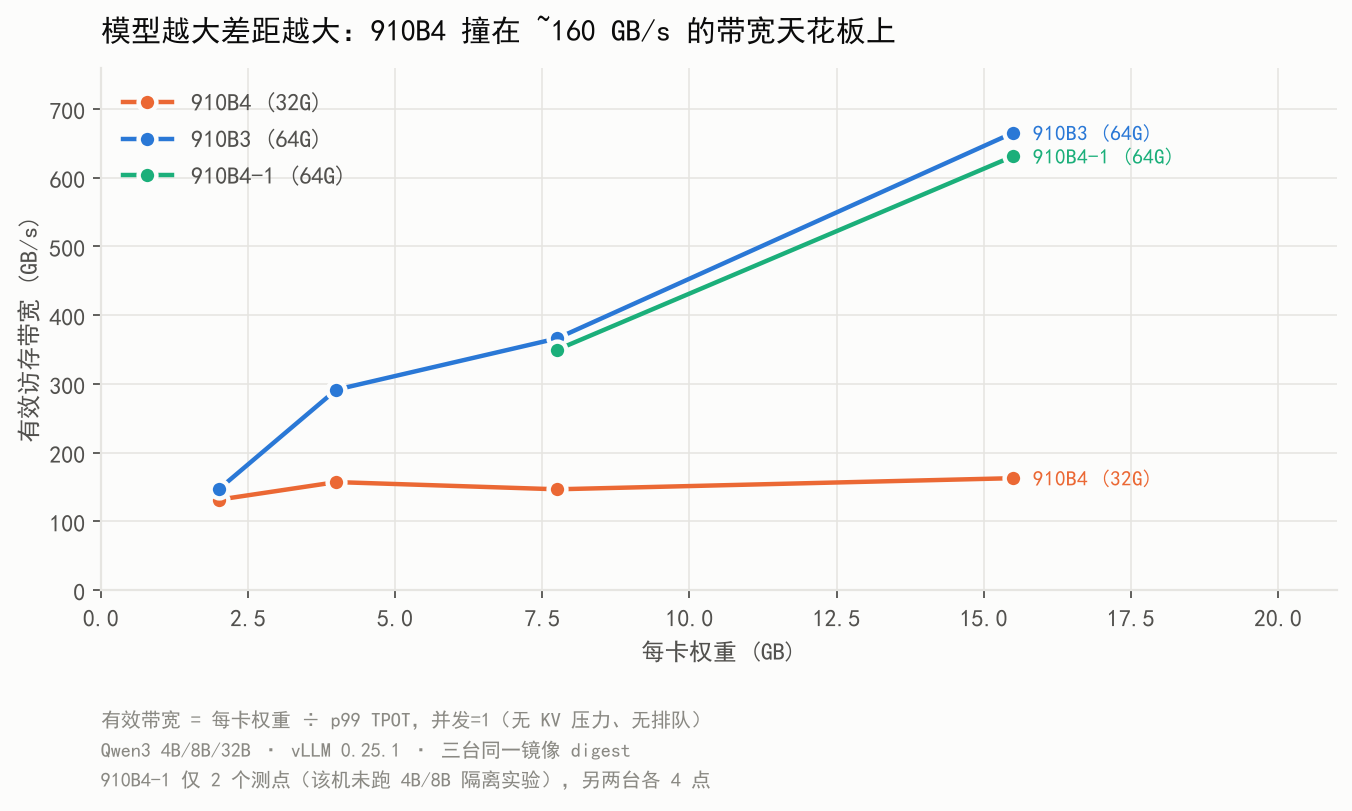
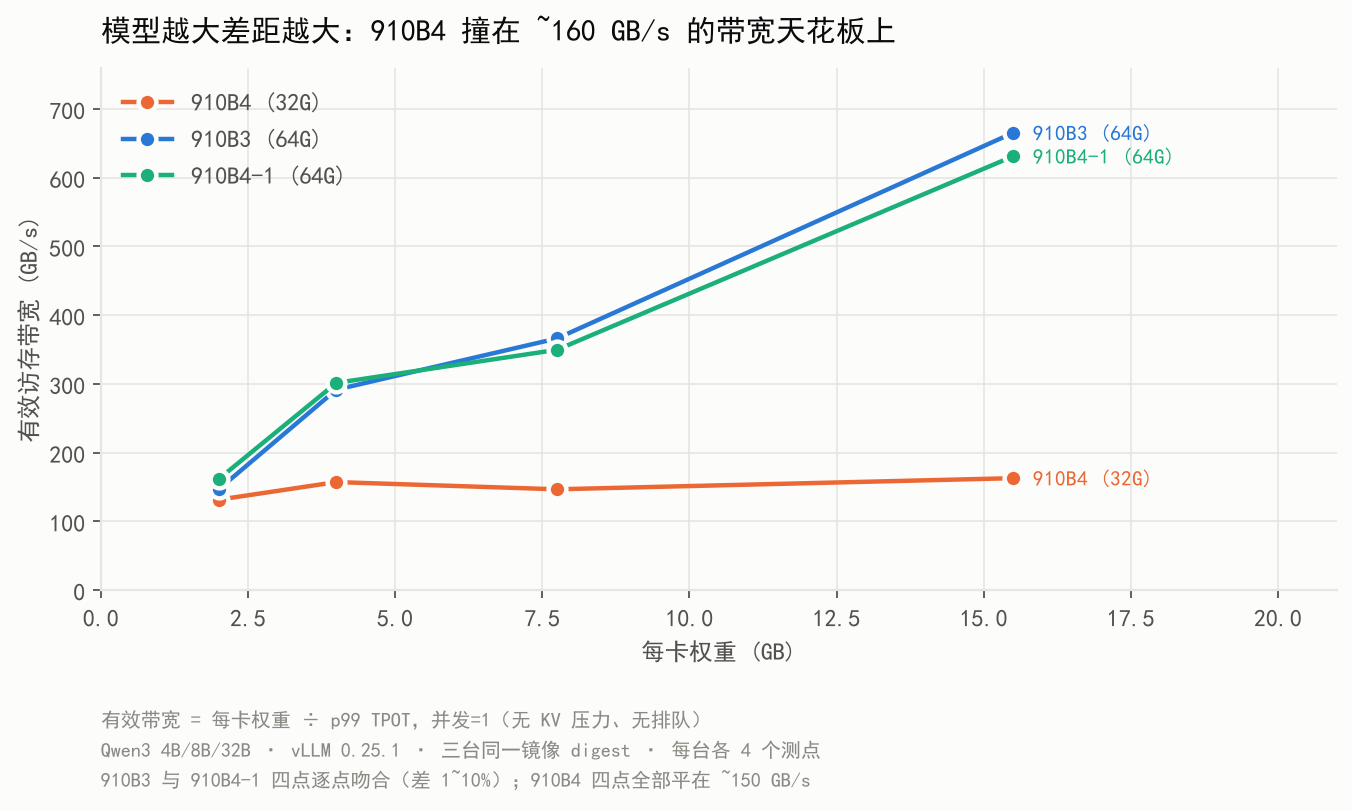
content(draft): 带宽曲线补齐三台各 4 点，更新中英双语正文与配图
910B4-1 补上 4B/8B 两个测点后:
- 161 / 301 / 350 / 631 GB/s,与 910B3(147/292/366/665)逐点吻合(差 1~10%)
- 910B4 四点全部平在 ~150 GB/s

正文数据块由 3 行变 4 行(补 910B4-1 整行 + 910B3 的 7.75GB 点),
文末「已知缺口」去掉「910B4-1 仅 2 个测点」一条

Claude-Session: https://claude.ai/code/session_01RZfESbLUbLZAfKUXXmW8YV

diff --git a/content/posts/ascend-3models-bandwidth-ceiling/index.md b/content/posts/ascend-3models-bandwidth-ceiling/index.md
@@ -79,8 +79,9 @@ During decode, every card must read its full share of the weights once per token
 
 ```
 weights/card    2.0GB    4.0GB    7.75GB   15.5GB
-910B4         131      157      147      163  GB/s   <- all four points flat at ~160
-910B3         147      291      —        665  GB/s   <- climbing steeply, nowhere near saturated
+910B4         131      157      147      163  GB/s   <- all four flat at ~150: at the ceiling
+910B3         147      292      366      665  GB/s   <- monotonic climb, nowhere near saturated
+910B4-1       161      301      350      631  GB/s   <- tracks the 910B3 point-for-point (1~10% apart)
 ```
 
 **The 910B4 is already at its ceiling with 2 GB per card** — weights grew 7.75×, bandwidth crawled from 131 to 163. Over the same range the 910B3 went 147 → 665.
@@ -323,4 +324,4 @@ And one for fellow practitioners:
 
 All comparisons in this post use **the same image digest, the same model files, and the same bench protocol**, so cross-SKU conclusions are comparable.
 
-**Known gaps (stated honestly)**: the 910B4-1 has no 4B/8B isolation runs (only 2 points on its bandwidth curve); the 910B3 box was occupied by another user, so it has no x3 arm for the parameter matrix; cross-node TP16 was never attempted because a neighbour had a long-running service on the second node.
+**Known gaps (stated honestly)**: the 910B3 box was occupied by another user, so it has no x3 arm for the parameter matrix (which is why the "opposite sign" section rests on two SKUs); cross-node TP16 was never attempted because a neighbour had a long-running service on the second node.

diff --git a/content/posts/ascend-3models-bandwidth-ceiling/index.zh.md b/content/posts/ascend-3models-bandwidth-ceiling/index.zh.md
@@ -79,8 +79,9 @@ ShowToc: true
 
 ```
 每卡权重       2.0GB    4.0GB    7.75GB   15.5GB
-910B4        131      157      147      163  GB/s   ← 四点全部撞平在 ~160
-910B3        147      291      —        665  GB/s   ← 一路陡升,远未饱和
+910B4        131      157      147      163  GB/s   ← 四点全部平在 ~150,撞顶
+910B3        147      292      366      665  GB/s   ← 单调陡升,远未饱和
+910B4-1      161      301      350      631  GB/s   ← 与 910B3 逐点吻合(差 1~10%)
 ```
 
 **910B4 的有效带宽从每卡 2GB 就已经到顶了**——权重量翻了 7.75 倍，带宽只从 131 挪到 163。而 910B3 同期从 147 爬到 665。
@@ -324,4 +325,4 @@ W8A8 相对 bf16（32B / TP4 / 并发 128）：
 
 方法学规范见系列前文的统一测试文档；本轮所有对比均为**同镜像 digest、同模型文件、同 bench 口径**，跨型号结论可比。
 
-**已知缺口（诚实标注）**：910B4-1 未跑 4B/8B 隔离实验（带宽曲线只有 2 个测点）；910B3 的 `enable_static_kernel` / `enable_flashcomm1` 因该机被他人占用未补；跨节点 TP16 因邻居有常驻服务未做。
+**已知缺口（诚实标注）**：910B3 因该机被他人占用，未补参数矩阵的 x3 臂（故「方向相反」一节只用两个型号立论）；跨节点 TP16 因邻居有常驻服务未做。
